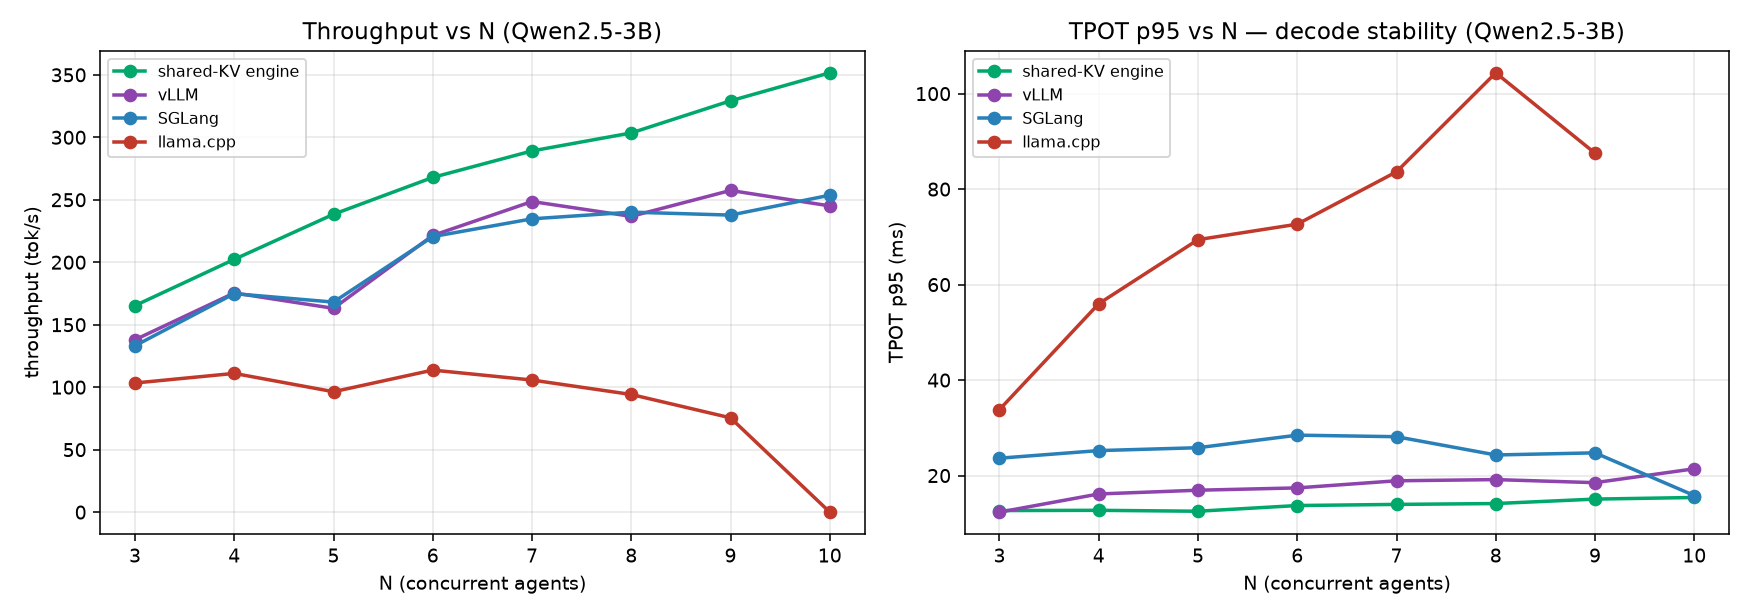
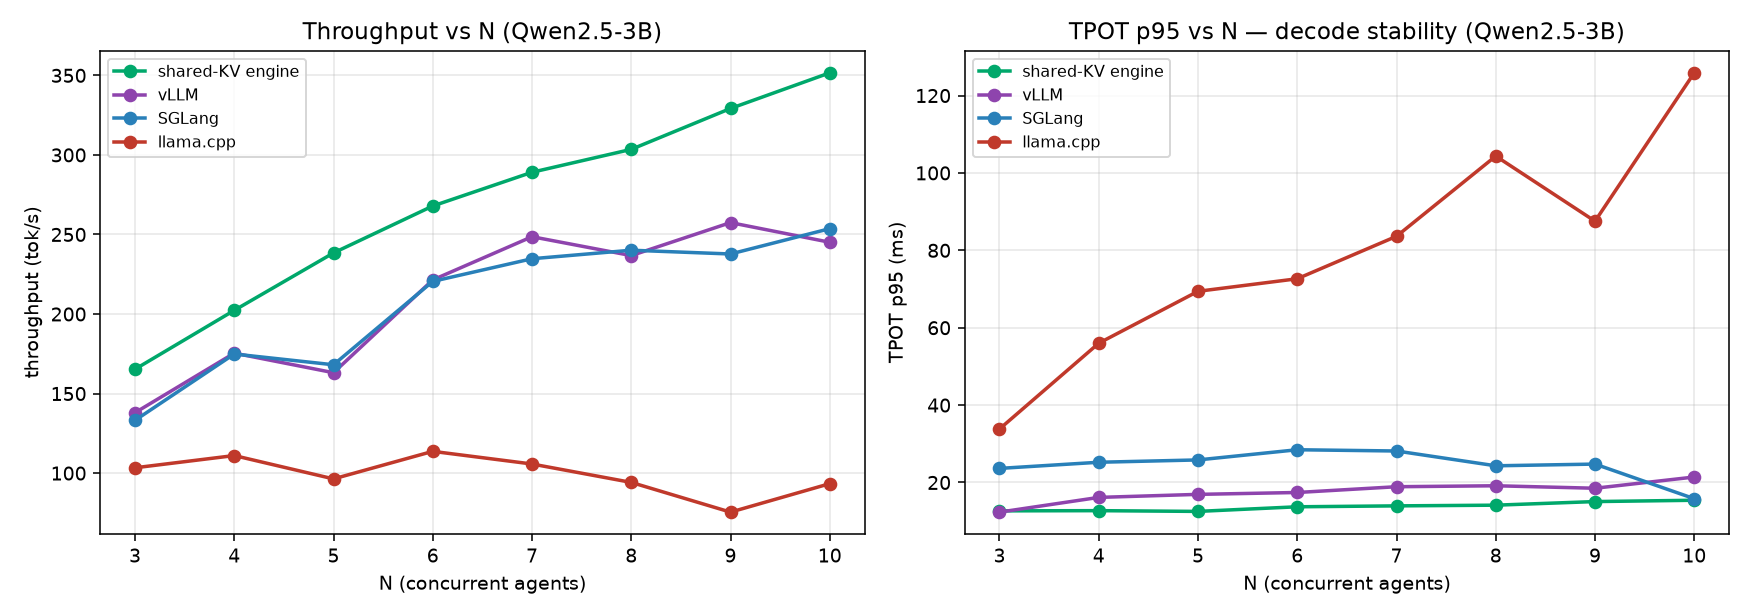
Complete llama.cpp N=10 in the 4-way N-scale comparison
Root cause of the empty llama.cpp N=10 row: the baseline model config uses
context_length=24576, so --parallel 10 gives only ~2457 tokens/slot, smaller
than the 2693-token cold prompt -> every slot overflowed and llama-server
emitted 0 tokens.

Re-ran the llama.cpp baseline at N=10 with context_length=49152
(configs/models/qwen25_3b_n10.yaml): throughput 93.4 tok/s, TPOT p95 125.9 ms.

Result: the 4-way N-scale is now complete at every N=3..10. llama.cpp TPOT p95
degrades 33.8 -> 125.9 ms while the shared-KV engine stays flat (12.5-15.4 ms).
Update figure, result doc, docs/results README, and add the N=10 model config.

diff --git a/results/4way-nscale-3b.md b/results/4way-nscale-3b.md
@@ -16,7 +16,7 @@ vLLM / SGLang measured with **per-token streaming** so TPOT is a true per-token 
 | 7 | **289.1** | 248.6 | 234.8 | 105.7 |
 | 8 | **303.5** | 236.7 | 240.1 | 94.2 |
 | 9 | **329.2** | 257.5 | 237.7 | 75.5 |
-| 10 | **351.6** | 245.1 | 253.6 | (failed, 0 tokens) |
+| 10 | **351.6** | 245.1 | 253.6 | 93.4 |
 
 ## TPOT p95 (ms) — decode stability under concurrency
 
@@ -27,9 +27,9 @@ vLLM / SGLang measured with **per-token streaming** so TPOT is a true per-token 
 | 5 | **12.53** | 16.93 | 25.83 | 69.41 |
 | 6 | **13.72** | 17.42 | 28.46 | 72.65 |
 | 7 | **13.96** | 18.91 | 28.14 | 83.63 |
-| 8 | **14.14** | 19.16 | 24.31 | **104.36** |
+| 8 | **14.14** | 19.16 | 24.31 | 104.36 |
 | 9 | **15.07** | 18.51 | 24.76 | 87.53 |
-| 10 | **15.41** | 21.42 | **15.82** | (failed) |
+| 10 | **15.41** | 21.42 | **15.82** | **125.87** |
 
 ![4-way N-scale comparison](figures/backend-4way-nscale-3b.png)
 
@@ -38,20 +38,23 @@ vLLM / SGLang measured with **per-token streaming** so TPOT is a true per-token 
 - **Throughput scales with N and is far ahead of every baseline.** The engine goes
   **165.3 → 351.6 tok/s** (N=3→10), a ~2.1× gain, and is 137–152% above vLLM/SGLang and
   3–10× above llama.cpp. llama.cpp does not scale (peaks at 113.7 at N=6, degrades to 75.5
-  at N=9) and collapses at N=10.
-- **Decode latency is fundamentally stable for the engine.** Engine TPOT p95 stays in the
-  narrow band **12.5–15.4 ms** across all N, while **llama.cpp explodes** from 33.8 → 104.4 ms.
-  Under concurrency the engine's continuous-batching decode path is never starved — this is the
-  AgentServe decode-protection benefit, reproduced across the full N range.
+  at N=9, recovers to 93.4 at N=10).
+- **Decode latency is essentially load-independent for the engine.** Engine TPOT p95 stays in the
+  narrow band **12.5–15.4 ms** across all N, while **llama.cpp degrades monotonically**
+  33.8 → 104.4 ms by N=8 and then **125.9 ms at N=10**. Under concurrency the engine's
+  continuous-batching decode path is never starved — this is the AgentServe decode-protection
+  benefit, reproduced across the full N range.
 - **vLLM and SGLang are also only mildly load-sensitive** (TPOT p95 12–28 ms), but they cap at
   ~175–258 tok/s. The engine's prefix-cached shared prefill + packed decode round gives more
   headroom.
 - **N=10 needs the full 24 GB**: the engine run used `n_ctx=65536` to hold the shared system prefix
   (≈2700 tokens) for 10 sessions plus the decode KV; it completed with `total_decode=1383` and no
   OOM.
-- **llama.cpp N=10 failed** (0 tokens / empty metrics): llama-server hits a slot/concurrency limit
-  at N=10. The llama baseline trend is therefore covered by N=3–9, which is sufficient to show the
-  ordering.
+- **llama.cpp at N=10 needs a larger context than the default.** The baseline config uses
+  `context_length=24576`, so `--parallel 10` gives only ~2457 tokens/slot — smaller than the
+  2693-token cold prompt, so every slot overflowed and llama-server emitted **0 tokens**
+  (the earlier N=10 row was empty). Re-running with `context_length=49152` (~4915 tokens/slot)
+  produces the real N=10 point above (93.4 tok/s, TPOT p95 125.9 ms).
 
 ## Reproduction
 
@@ -59,5 +62,6 @@ vLLM / SGLang measured with **per-token streaming** so TPOT is a true per-token 
   `[engine] DONE` summary line and per-token event logs.
 - Baselines run per-N via `scripts/serve_llama.py` / `scripts/serve_backend.py --backend {vllm,sglang}`
   (see `scripts/README.md`). vLLM/SGLang use `--stream-interval 1` for true per-token TPOT.
+  llama.cpp N=10 uses a model config with `context_length=49152` (see `configs/models/qwen25_3b_n10.yaml`).
 - Raw per-N metrics: `metrics/nscale-4way/{engine_summary.csv,engine_N*.jsonl,{llama,vllm,sglang}_N*.json}`.
 - Figure regenerated by `scripts/plot_4way_nscale.py`.

diff --git a/docs/results/README.md b/docs/results/README.md
@@ -87,11 +87,12 @@ Run the full four-way comparison (llama.cpp / vLLM / SGLang / shared-KV engine) 
 baseline:
 
 - **Throughput** (tok/s): engine 165.3 → **351.6** (N=3→10), far above vLLM (138→245), SGLang
-  (133→254), and llama.cpp (which peaks at 113.7 and collapses at N=10).
-- **TPOT p95** (ms): engine is **flat (12.5–15.4 ms)** across all N, while llama.cpp explodes
-  33.8 → 104.4 ms under concurrency. vLLM/SGLang are mild (12–28 ms) but cap throughput.
-- llama.cpp fails at N=10 (0 tokens / empty metrics) — a slot/concurrency limit; the N=3–9 trend
-  is sufficient to establish the ordering.
+  (133→254), and llama.cpp (which plateaus ~93–114 and never approaches the engine).
+- **TPOT p95** (ms): engine is **flat (12.5–15.4 ms)** across all N, while llama.cpp degrades
+  33.8 → **125.9 ms** under concurrency. vLLM/SGLang are mild (12–28 ms) but cap throughput.
+- **llama.cpp N=10 needs a larger context**: with the default `context_length=24576`, `--parallel 10`
+  gives <2693 tokens/slot (smaller than the cold prompt) so it emitted 0 tokens. It was re-run with
+  `context_length=49152` to get the real N=10 point (93.4 tok/s, TPOT p95 125.9 ms).
 
 See [`4way-nscale-3b.md`](../../results/4way-nscale-3b.md), figure
 [`backend-4way-nscale-3b.png`](../../figures/backend-4way-nscale-3b.png), per-N metrics in
